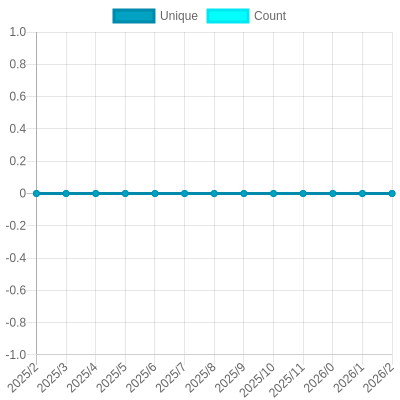
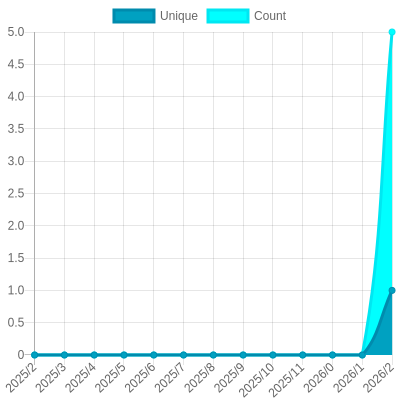
Update views

diff --git a/README.md b/README.md
@@ -506,7 +506,7 @@ The project created and maintained by [gayanvoice](https://github.com/gayanvoice
 			</a>
 		</td>
 		<td>
-			2025/3/12 4:48 PM UTC
+			2025/3/13 4:48 PM UTC
 		</td>
 		<td>
 			1
@@ -522,7 +522,7 @@ The project created and maintained by [gayanvoice](https://github.com/gayanvoice
 			</a>
 		</td>
 		<td>
-			2025/3/12 4:48 PM UTC
+			2025/3/13 4:48 PM UTC
 		</td>
 		<td>
 			0
@@ -533,7 +533,7 @@ The project created and maintained by [gayanvoice](https://github.com/gayanvoice
 	</tr>
 </table>
 
-<small><i>Last updated on 2025/3/15 4:48 PM UTC</i></small>
+<small><i>Last updated on 2025/3/15 6:30 PM UTC</i></small>
 
 ## ✂Copy and 📋 Paste
 ### Total Views Badge

diff --git a/readme/949082746/year.md b/readme/949082746/year.md
@@ -23,10 +23,10 @@
 			<code>2025/3/1</code>
 		</td>
 		<td>
-			<code>0</code>
+			<code>1</code>
 		</td>
 		<td>
-			<code>0</code>
+			<code>5</code>
 		</td>
 	</tr>
 	<tr>
@@ -164,7 +164,7 @@
 </table>
 
 </details>
-<small><i>Last updated on 2025/3/15 4:48 PM UTC</i></small>
+<small><i>Last updated on 2025/3/15 6:30 PM UTC</i></small>
 
 ## ✂Copy and 📋 Paste
 ### SVG Badge

diff --git a/readme/488043347/year.md b/readme/488043347/year.md
@@ -164,7 +164,7 @@
 </table>
 
 </details>
-<small><i>Last updated on 2025/3/15 4:45 PM UTC</i></small>
+<small><i>Last updated on 2025/3/15 6:27 PM UTC</i></small>
 
 ## ✂Copy and 📋 Paste
 ### SVG Badge

diff --git a/readme/488047529/year.md b/readme/488047529/year.md
@@ -164,7 +164,7 @@
 </table>
 
 </details>
-<small><i>Last updated on 2025/3/15 4:44 PM UTC</i></small>
+<small><i>Last updated on 2025/3/15 6:26 PM UTC</i></small>
 
 ## ✂Copy and 📋 Paste
 ### SVG Badge

diff --git a/readme/488062606/year.md b/readme/488062606/year.md
@@ -164,7 +164,7 @@
 </table>
 
 </details>
-<small><i>Last updated on 2025/3/15 4:45 PM UTC</i></small>
+<small><i>Last updated on 2025/3/15 6:27 PM UTC</i></small>
 
 ## ✂Copy and 📋 Paste
 ### SVG Badge

diff --git a/readme/488105366/year.md b/readme/488105366/year.md
@@ -164,7 +164,7 @@
 </table>
 
 </details>
-<small><i>Last updated on 2025/3/15 4:44 PM UTC</i></small>
+<small><i>Last updated on 2025/3/15 6:26 PM UTC</i></small>
 
 ## ✂Copy and 📋 Paste
 ### SVG Badge

diff --git a/readme/488346472/year.md b/readme/488346472/year.md
@@ -164,7 +164,7 @@
 </table>
 
 </details>
-<small><i>Last updated on 2025/3/15 4:45 PM UTC</i></small>
+<small><i>Last updated on 2025/3/15 6:27 PM UTC</i></small>
 
 ## ✂Copy and 📋 Paste
 ### SVG Badge

diff --git a/readme/488363582/year.md b/readme/488363582/year.md
@@ -164,7 +164,7 @@
 </table>
 
 </details>
-<small><i>Last updated on 2025/3/15 4:45 PM UTC</i></small>
+<small><i>Last updated on 2025/3/15 6:27 PM UTC</i></small>
 
 ## ✂Copy and 📋 Paste
 ### SVG Badge

diff --git a/readme/488368017/year.md b/readme/488368017/year.md
@@ -164,7 +164,7 @@
 </table>
 
 </details>
-<small><i>Last updated on 2025/3/15 4:45 PM UTC</i></small>
+<small><i>Last updated on 2025/3/15 6:27 PM UTC</i></small>
 
 ## ✂Copy and 📋 Paste
 ### SVG Badge

diff --git a/readme/488782926/year.md b/readme/488782926/year.md
@@ -164,7 +164,7 @@
 </table>
 
 </details>
-<small><i>Last updated on 2025/3/15 4:45 PM UTC</i></small>
+<small><i>Last updated on 2025/3/15 6:27 PM UTC</i></small>
 
 ## ✂Copy and 📋 Paste
 ### SVG Badge

diff --git a/readme/490287175/year.md b/readme/490287175/year.md
@@ -164,7 +164,7 @@
 </table>
 
 </details>
-<small><i>Last updated on 2025/3/15 4:45 PM UTC</i></small>
+<small><i>Last updated on 2025/3/15 6:27 PM UTC</i></small>
 
 ## ✂Copy and 📋 Paste
 ### SVG Badge

diff --git a/readme/491328736/year.md b/readme/491328736/year.md
@@ -164,7 +164,7 @@
 </table>
 
 </details>
-<small><i>Last updated on 2025/3/15 4:45 PM UTC</i></small>
+<small><i>Last updated on 2025/3/15 6:27 PM UTC</i></small>
 
 ## ✂Copy and 📋 Paste
 ### SVG Badge
